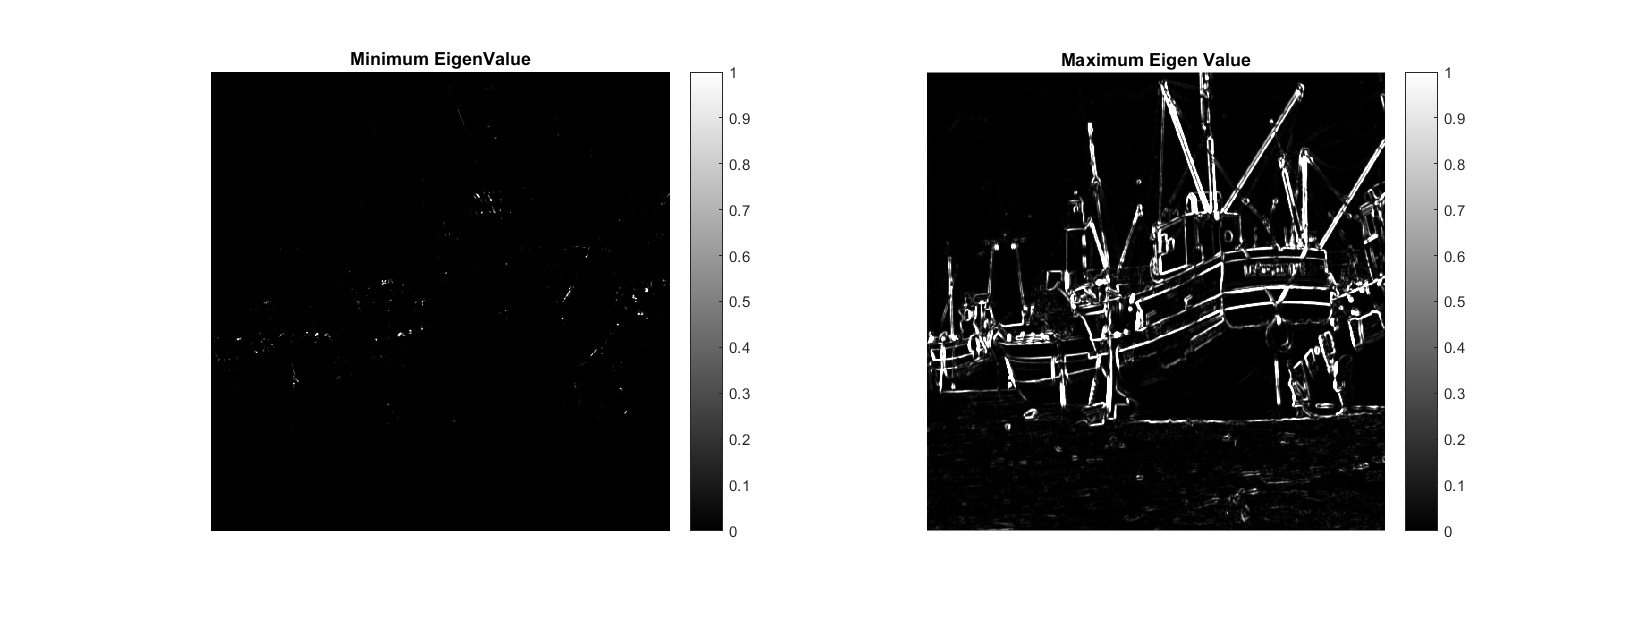
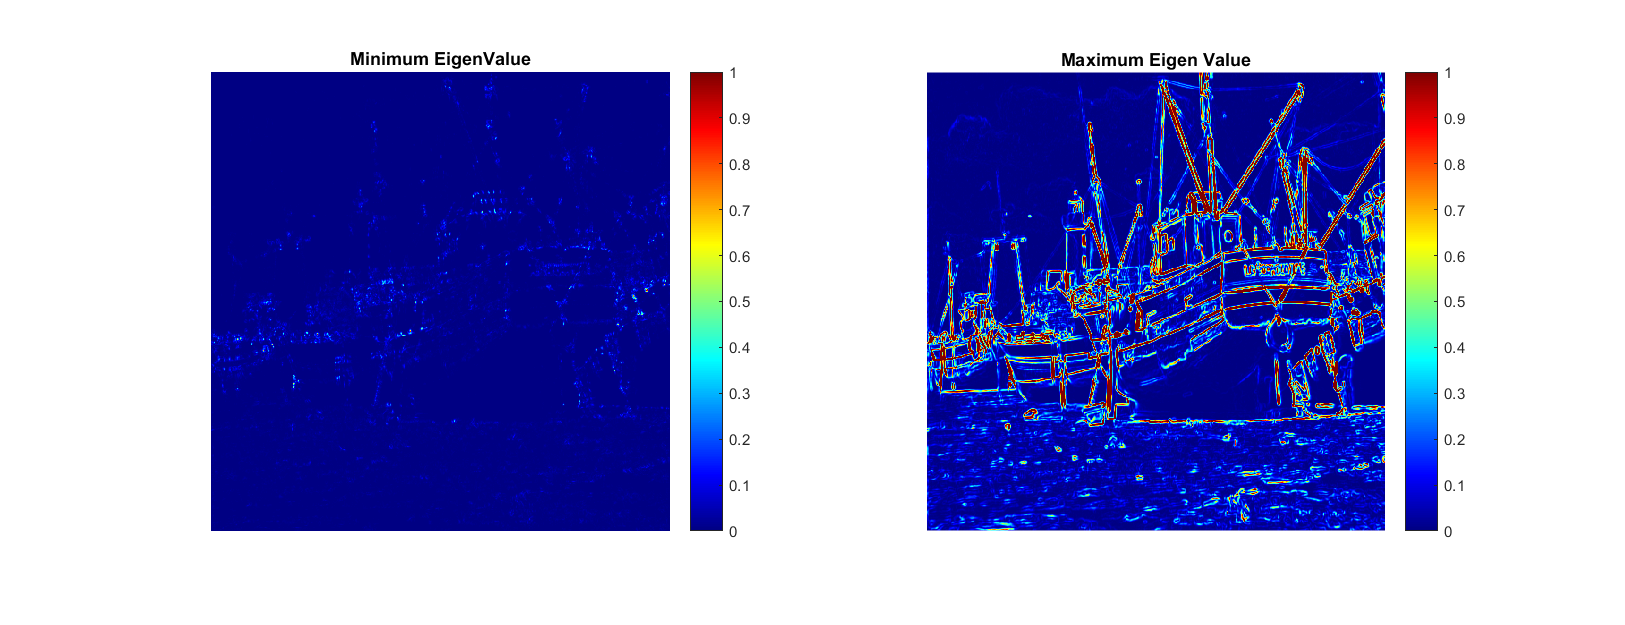
Ready For Submission

diff --git a/assignment3_Segmentation/1/report/myMainScript.html b/assignment3_Segmentation/1/report/myMainScript.html
@@ -79,18 +79,18 @@ length=(window_size-1)/2;
 
 [Gx,Gy]=imgradientxy(img,<span class="string">'sobel'</span>);
 
-Ix=Gx.*Gx;
-Iy=Gy.*Gy;
+Ix2=Gx.*Gx;
+Iy2=Gy.*Gy;
 Ixy=Gx.*Gy;
 
 
-output_Ix=imgaussfilt(Ix,std2,<span class="string">'Filtersize'</span>,5);
-output_Iy=imgaussfilt(Iy,std2,<span class="string">'Filtersize'</span>,5);
+output_Ix2=imgaussfilt(Ix2,std2,<span class="string">'Filtersize'</span>,5);
+output_Iy2=imgaussfilt(Iy2,std2,<span class="string">'Filtersize'</span>,5);
 output_Ixy=imgaussfilt(Ixy,std2,<span class="string">'Filtersize'</span>,5);
 
 
-Trace=output_Ix.^2+output_Iy.^2;
-Det=(output_Ix.^2).*(output_Iy.^2)-(output_Ixy.^2);
+Trace=output_Ix2 +output_Iy2 ;
+Det=(output_Ix2).*(output_Iy2)-(output_Ixy.^2);
 
 
 <span class="comment">%Eigen Values for 2-D Matrices</span>
@@ -99,7 +99,7 @@ output_eig_max=(Trace/2) +((Trace/2).^2 - Det).^(1/2);
 
 
 <span class="comment">%Harris-Corner Detector</span>
-thresh = 0.001;
+thresh = 0.006;
 corner_detected=output_eig_min.*output_eig_max - k*(output_eig_min+output_eig_max).^2;
 corner_detected(corner_detected&lt;thresh)=0;
 
@@ -121,8 +121,8 @@ img=img.imageOrig;
 img=img/max(max(img));
 
 std1=0.05;
-k=0.11;
-std2=0.7;
+k=0.182;
+std2=0.5;
 img=imgaussfilt(img,std1);
 
 tic;
@@ -132,37 +132,70 @@ toc;
 <span class="comment">%Gradient along X and Gradient along Y, using the 'Sobel' operator</span>
 
 figure(<span class="string">'name'</span>,<span class="string">'ImageDerivatives'</span>,<span class="string">'Position'</span>, [100 100 1300 500]);
-colormap(<span class="string">'gray'</span>);
 subplot(1,2,1),imshow(Gx);
+colormap(gray);
 title(<span class="string">'X Gradient'</span>);
 subplot(1,2,2),imshow(Gy);
+colormap(gray);
 title(<span class="string">'Y Gradient'</span>);
 
 <span class="comment">%Minimum and Maximum Eigen-Value</span>
 
 figure(<span class="string">'name'</span>,<span class="string">'EigenValues'</span>,<span class="string">'Position'</span>, [100 100 1300 500]);
-colormap(<span class="string">'gray'</span>);
-subplot(1,2,1),imshow(output_eig_min);colorbar;
+subplot(1,2,1),imshow(output_eig_min/max(max(output_eig_min)));colorbar;
+colormap(jet);
 title(<span class="string">'Minimum EigenValue'</span>);
 subplot(1,2,2),imshow(output_eig_max);colorbar;
+colormap(jet);
 title(<span class="string">'Maximum Eigen Value'</span>);
 
 <span class="comment">%Cornerness and Markers on the Final Image</span>
 
 figure(<span class="string">'name'</span>,<span class="string">'HarrisCornerDetector'</span>,<span class="string">'Position'</span>, [100 100 1300 500]);
-colormap(<span class="string">'gray'</span>);
-subplot(1,2,1),imshow(corner_detected);colorbar;
+ax1=subplot(1,2,1),imshow(corner_detected/max(max(corner_detected)));colorbar;
+colormap(ax1,jet);
 title(<span class="string">'Harris Cornerness'</span>);
-subplot(1,2,2),imshow(final);colorbar;
+ax2=subplot(1,2,2),imshow(final);colorbar;
+colormap(ax2,gray);
 title(<span class="string">'Detected Corners'</span>);
 
-{<span class="string">'Std_for_Smotheening'</span>, <span class="string">'Std_for_Harris_Detection'</span>, <span class="string">'k'</span>; 0.05, 0.7, 0.11}
-</pre><pre class="codeoutput">Elapsed time is 0.728364 seconds.
+{<span class="string">'Std_for_Smotheening'</span>, <span class="string">'Std_for_Harris_Detection'</span>, <span class="string">'k'</span>; 0.05, 0.5, 0.182}
+</pre><pre class="codeoutput">Elapsed time is 0.851922 seconds.
+
+ax1 = 
+
+  Axes with properties:
+
+             XLim: [0 1]
+             YLim: [0 1]
+           XScale: 'linear'
+           YScale: 'linear'
+    GridLineStyle: '-'
+         Position: [0.1300 0.1100 0.3347 0.8150]
+            Units: 'normalized'
+
+  Use GET to show all properties
+
+
+ax2 = 
+
+  Axes with properties:
+
+             XLim: [0 1]
+             YLim: [0 1]
+           XScale: 'linear'
+           YScale: 'linear'
+    GridLineStyle: '-'
+         Position: [0.5703 0.1100 0.3347 0.8150]
+            Units: 'normalized'
+
+  Use GET to show all properties
+
 
 ans = 
 
     'Std_for_Smotheening'    'Std_for_Harris_De...'      'k'     
-    [             0.0500]    [              0.7000]    [0.1100]
+    [             0.0500]    [              0.5000]    [0.1820]
 
 </pre><img vspace="5" hspace="5" src="myMainScript_01.png" style="width:1300px;height:500px;" alt=""> <img vspace="5" hspace="5" src="myMainScript_02.png" style="width:1300px;height:500px;" alt=""> <img vspace="5" hspace="5" src="myMainScript_03.png" style="width:1300px;height:500px;" alt=""> <p class="footer"><br><a href="http://www.mathworks.com/products/matlab/">Published with MATLAB&reg; R2015b</a><br></p></div><!--
 ##### SOURCE BEGIN #####
@@ -178,8 +211,8 @@ img=img.imageOrig;
 img=img/max(max(img));
 
 std1=0.05;
-k=0.11;
-std2=0.7;
+k=0.182;
+std2=0.5;
 img=imgaussfilt(img,std1);
 
 tic;
@@ -189,31 +222,34 @@ toc;
 %Gradient along X and Gradient along Y, using the 'Sobel' operator
 
 figure('name','ImageDerivatives','Position', [100 100 1300 500]);
-colormap('gray');
 subplot(1,2,1),imshow(Gx);
+colormap(gray);
 title('X Gradient');
 subplot(1,2,2),imshow(Gy);
+colormap(gray);
 title('Y Gradient');
 
 %Minimum and Maximum Eigen-Value
 
 figure('name','EigenValues','Position', [100 100 1300 500]);
-colormap('gray');
-subplot(1,2,1),imshow(output_eig_min);colorbar;
+subplot(1,2,1),imshow(output_eig_min/max(max(output_eig_min)));colorbar;
+colormap(jet);
 title('Minimum EigenValue');
 subplot(1,2,2),imshow(output_eig_max);colorbar;
+colormap(jet);
 title('Maximum Eigen Value');
 
 %Cornerness and Markers on the Final Image
 
 figure('name','HarrisCornerDetector','Position', [100 100 1300 500]);
-colormap('gray');
-subplot(1,2,1),imshow(corner_detected);colorbar;
+ax1=subplot(1,2,1),imshow(corner_detected/max(max(corner_detected)));colorbar;
+colormap(ax1,jet);
 title('Harris Cornerness');
-subplot(1,2,2),imshow(final);colorbar;
+ax2=subplot(1,2,2),imshow(final);colorbar;
+colormap(ax2,gray);
 title('Detected Corners');
 
-{'Std_for_Smotheening', 'Std_for_Harris_Detection', 'k'; 0.05, 0.7, 0.11}
+{'Std_for_Smotheening', 'Std_for_Harris_Detection', 'k'; 0.05, 0.5, 0.182}
 
 
 

diff --git a/assignment3_Segmentation/1/code/myMainScript.m b/assignment3_Segmentation/1/code/myMainScript.m
@@ -21,28 +21,31 @@ toc;
 %Gradient along X and Gradient along Y, using the 'Sobel' operator
 
 figure('name','ImageDerivatives','Position', [100 100 1300 500]);
-colormap('gray');
 subplot(1,2,1),imshow(Gx);
+colormap(gray);
 title('X Gradient');
 subplot(1,2,2),imshow(Gy);
+colormap(gray);
 title('Y Gradient');
 
 %Minimum and Maximum Eigen-Value
 
 figure('name','EigenValues','Position', [100 100 1300 500]);
-colormap('gray');
-subplot(1,2,1),imshow(output_eig_min);colorbar;
+subplot(1,2,1),imshow(output_eig_min/max(max(output_eig_min)));colorbar;
+colormap(jet);
 title('Minimum EigenValue');
 subplot(1,2,2),imshow(output_eig_max);colorbar;
+colormap(jet);
 title('Maximum Eigen Value');
 
 %Cornerness and Markers on the Final Image
 
 figure('name','HarrisCornerDetector','Position', [100 100 1300 500]);
-colormap('gray');
-subplot(1,2,1),imshow(corner_detected);colorbar;
+ax1=subplot(1,2,1),imshow(corner_detected/max(max(corner_detected)));colorbar;
+colormap(ax1,jet);
 title('Harris Cornerness');
-subplot(1,2,2),imshow(final);colorbar;
+ax2=subplot(1,2,2),imshow(final);colorbar;
+colormap(ax2,gray);
 title('Detected Corners');
 
 {'Std_for_Smotheening', 'Std_for_Harris_Detection', 'k'; 0.05, 0.5, 0.182}
